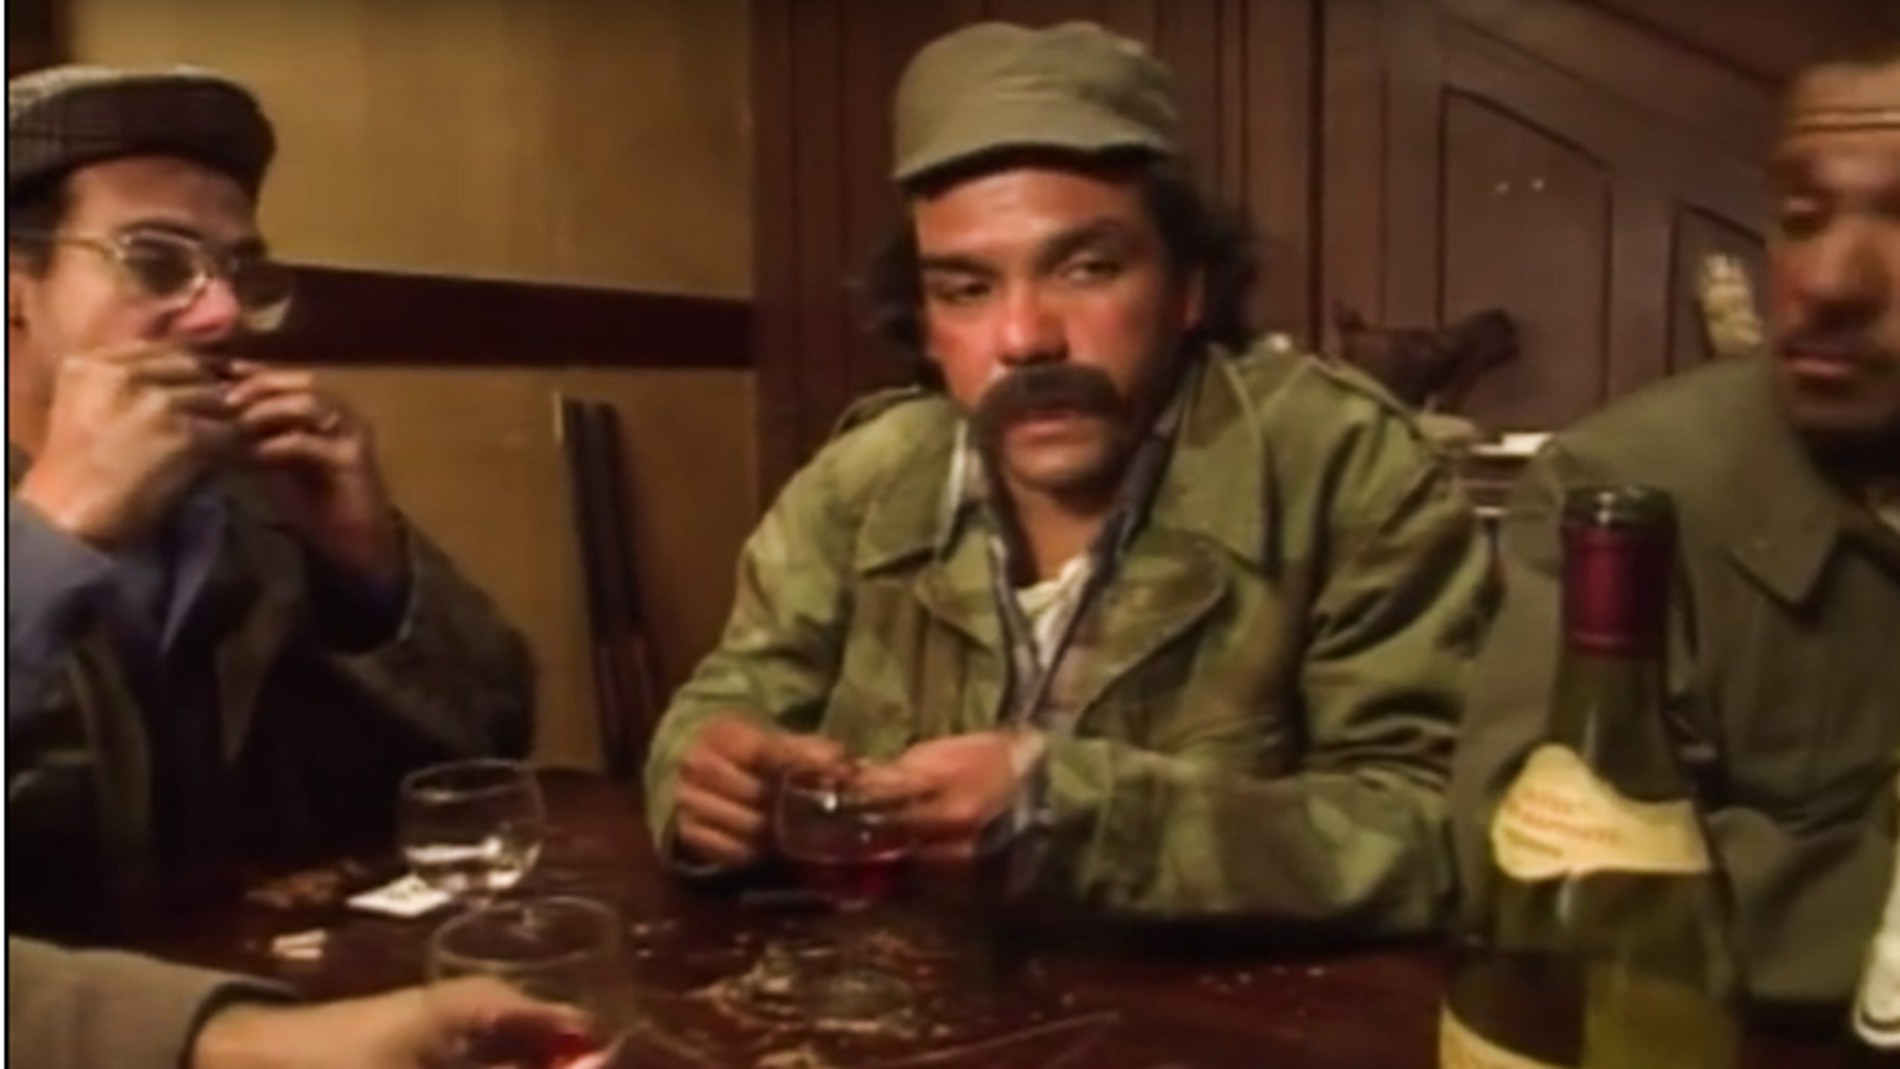
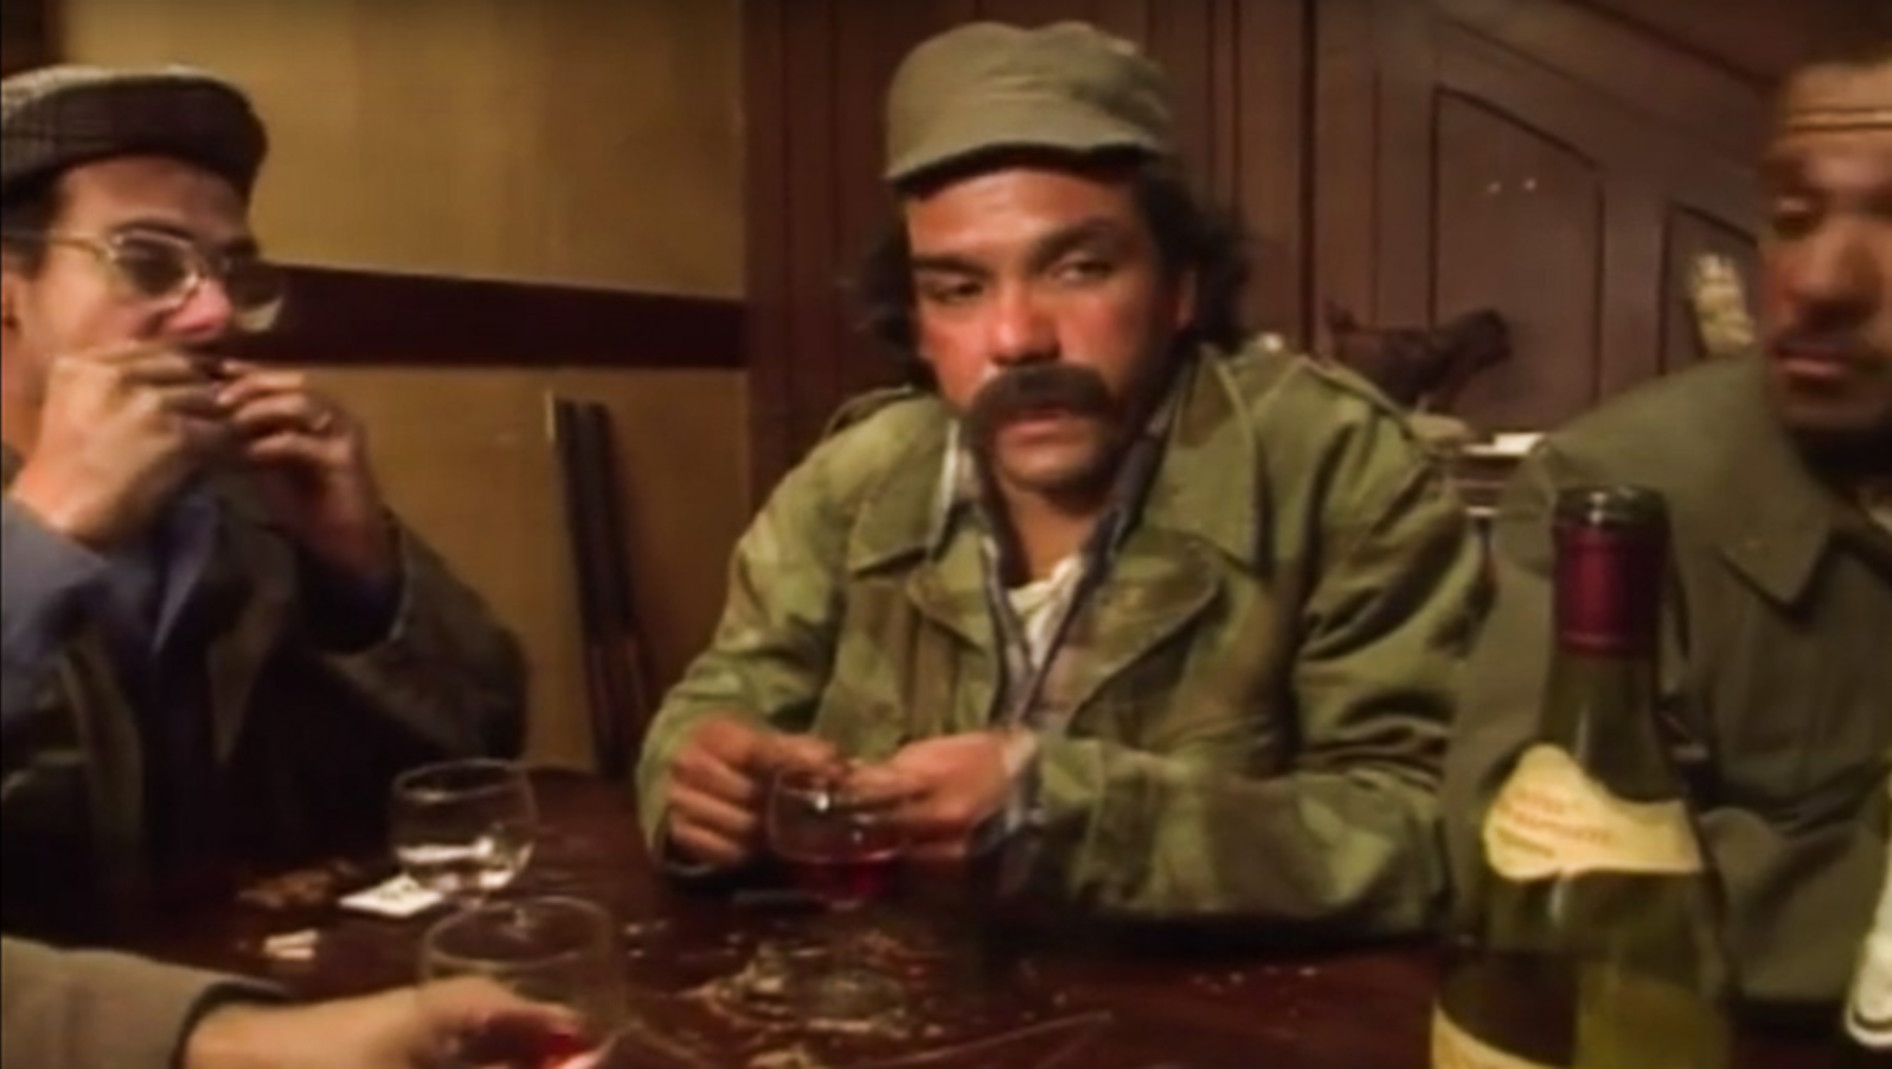
Add good test / bad test joke

diff --git a/crafting_unit_tests/content/sections/good_unit_test.tex b/crafting_unit_tests/content/sections/good_unit_test.tex
@@ -3,6 +3,11 @@
 \subsection{Naming}
 
 
+\begin{frame}
+  \goodbad{We can read a good test}
+\end{frame}
+
+
 \begin{frame}{Naming}
   There are 2 differents way of naming :
   \begin{itemize}
@@ -40,7 +45,17 @@
 \end{frame}
 
 
+\begin{frame}
+  \goodbad{We can read a bad test, but it’s a bad test}
+\end{frame}
+
+
 \subsection{Black box testing}
+
+
+\begin{frame}
+  \goodbad{We can maintain a good test}
+\end{frame}
 
 
 \begin{frame}{Black box}
@@ -68,6 +83,11 @@
 
 \begin{frame}{Black box gherkin way}
   \sample[5]{blackbox_gherkin}
+\end{frame}
+
+
+\begin{frame}
+  \goodbad{We can maintain a bad test but it’s a bad test}
 \end{frame}
 
 
@@ -150,6 +170,11 @@
 
 \subsection{Verifiability}
 
+\begin{frame}
+  \goodbad{We can verify a good test}
+\end{frame}
+
+
 \begin{frame}{Custom assertions}
   Remove duplicated assertion logic by creating your own Assertion Methods
   \begin{itemize}
@@ -172,6 +197,10 @@
 
   \center\sticker{\alert{\Large{Test should fail}}}
 
+\end{frame}
+
+\begin{frame}
+  \goodbad{We can verify a bad test, but it’s a bad test}
 \end{frame}
 
 

diff --git a/crafting_unit_tests/content/main.tex b/crafting_unit_tests/content/main.tex
@@ -30,6 +30,25 @@
 % }
 
 
+\newcommand{\goodbad}[1]{
+  \begin{tikzpicture}[remember picture,overlay]
+    \node[inner sep=0] (image) at (current page.center) {
+      \includegraphics[width=\paperwidth]{images/good_hunter}
+    };
+    \begin{scope}[x={(image.south east)},y={(image.north west)}]
+      \node[
+        ellipse callout,
+        fill=gray!50,
+        callout absolute pointer={(0.55,0.80)},
+        text width=3cm,
+        align=flush center,
+        node font=\tiny,
+        minimum height=1em] at (0.32,1) {#1};
+    \end{scope}
+  \end{tikzpicture}
+}
+
+
 \input{content/pyramid.tex}
 \input{content/system.tex}
 
@@ -54,9 +73,7 @@
 \section{Good practices}
 
 \begin{frame}
-  \singleimage{images/good_hunter}
-
-  There are good tests and bad tests
+  \goodbad{There are good tests and bad tests}
 \end{frame}
 
 
